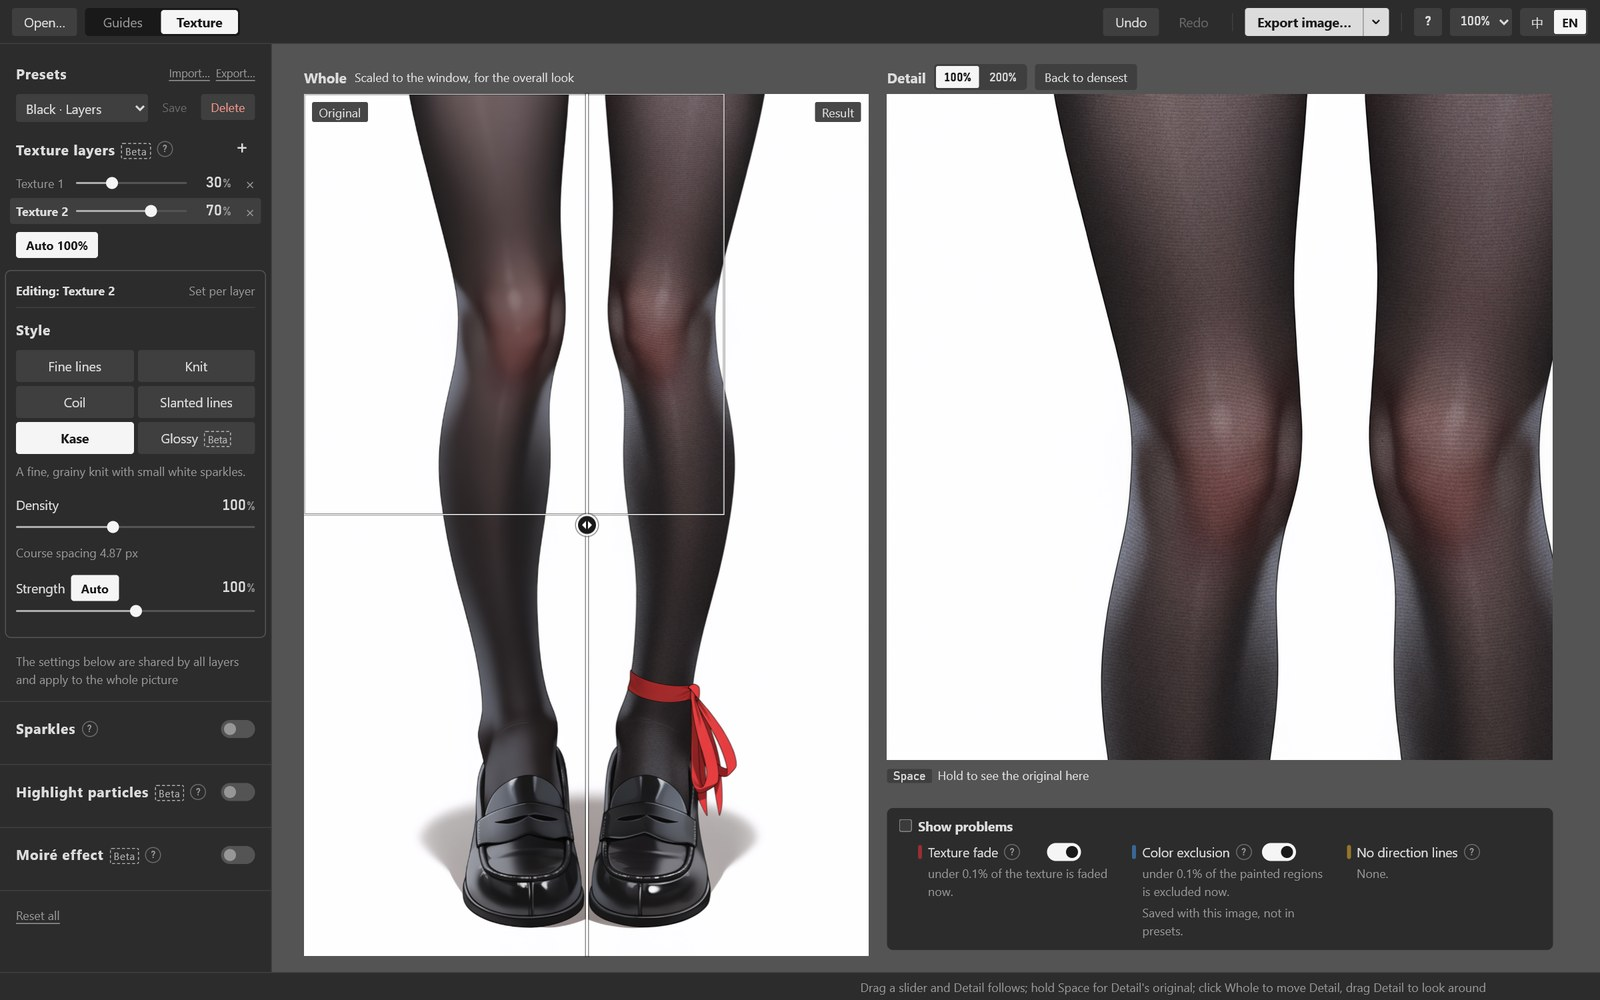
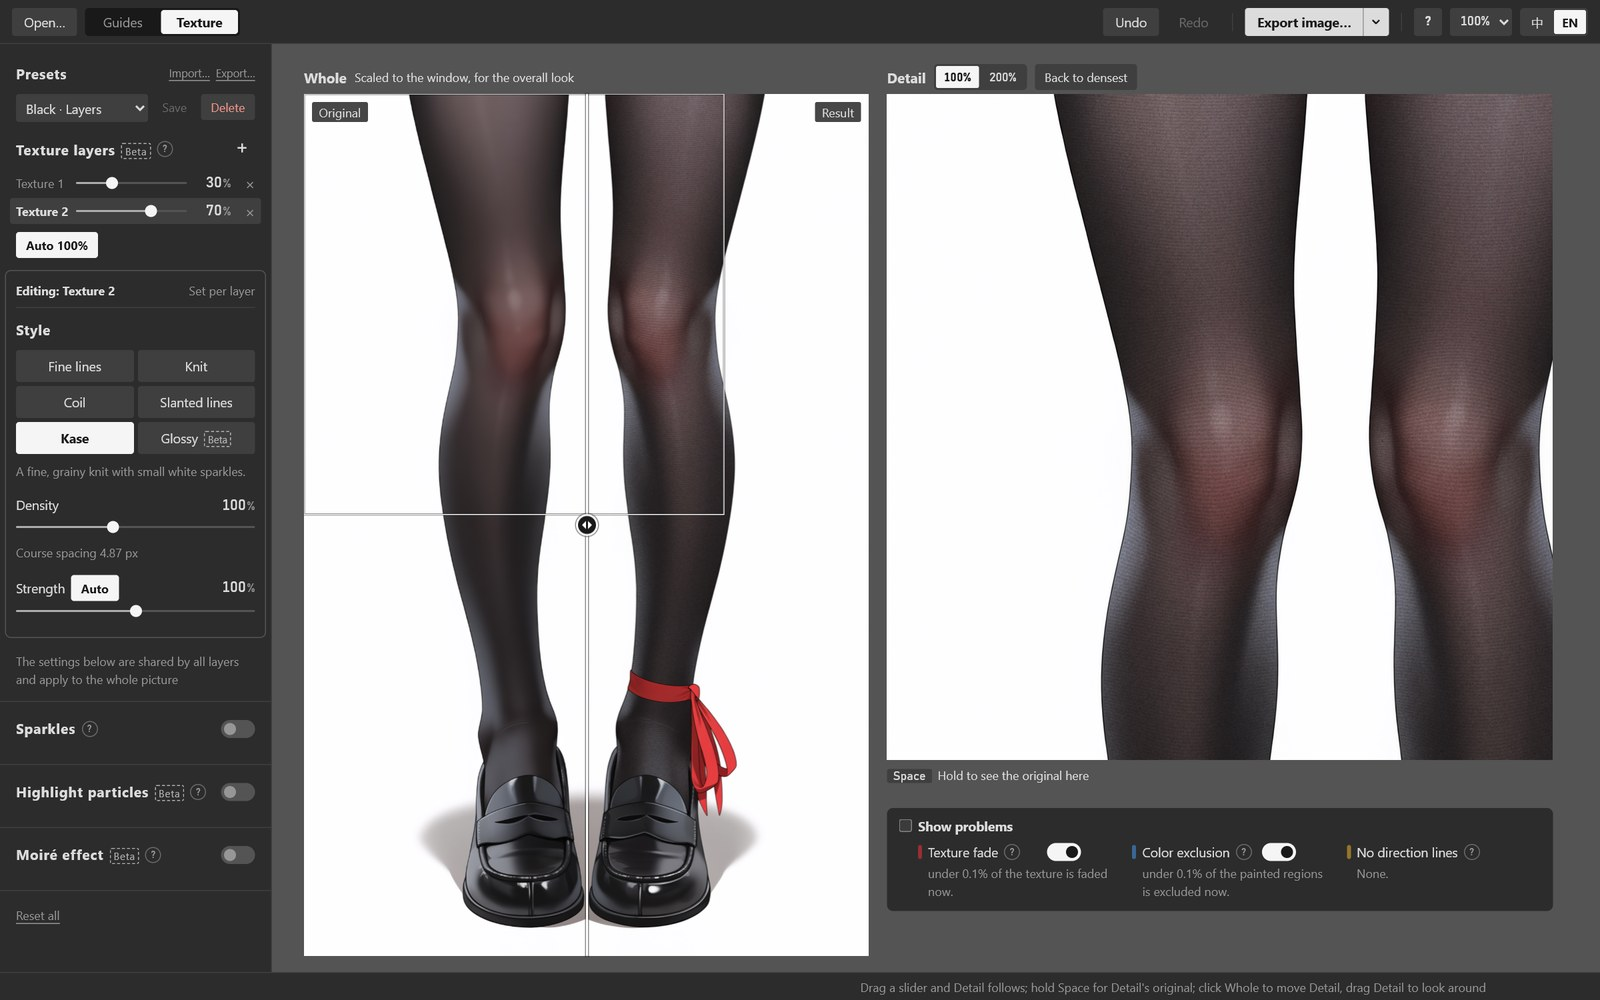
README: retake Texture screenshots without the scope note

Changed region(s): [[0.5312, 0.899, 0.9688, 0.961]]

diff --git a/.scratch/release/demo-images.md b/.scratch/release/demo-images.md
@@ -301,6 +301,10 @@ node shot.mjs <配方>.json
 - **不重拍的局部图：** `show-problems.png` 只从 B2 裁两块细节画布，不带标出问题控件；与其他画布裁图、成品和纹理对比图一起用原素材重合成，逐字节相同。`hook.png` 由另一个脚本生成，不受影响。
 - **配方：** 仓库内的配方已无旧 `#btn-check`，不用改；素材库还有旧配方，保持只读。以后若需运行它们，先复制到 `out/`，把打开和关闭标记的步骤换为 `#show-problems` 的勾选和取消勾选，检查其他旧选择器（如 `#check-faded`），并改道输出，不在素材库里改。素材库原始截图仍是旧界面，重合成时须继续使用覆盖目录，不能只设输出路径。
 
+### 移除颜色排除常驻说明后（848c9ab）
+
+沿用上面的只读覆盖流程，在 `out/readme-shots/` 重拍、合成纹理、高光粒子、摩尔纹效果、纹理层的中英整页图，同步移除「颜色排除」下方的常驻小字（运行素材库 Python 脚本仍须加 `-B` 并设 `PYTHONDONTWRITEBYTECODE=1`）。只替换这 8 张 JPG，其余 26 张入库图逐字节不变；素材库原片仍是旧界面，重合成时继续传入覆盖目录。
+
 ## 10. 许可和来源（README 或发布说明里可能用到）
 
 - B1、B2 原图由用户的 Anima 模型（SilvermoonMix-Anima-Evolved v2.3，BF16）生成，B5 和 B1 白丝由 GPT Image 生成；都没有特定角色。
